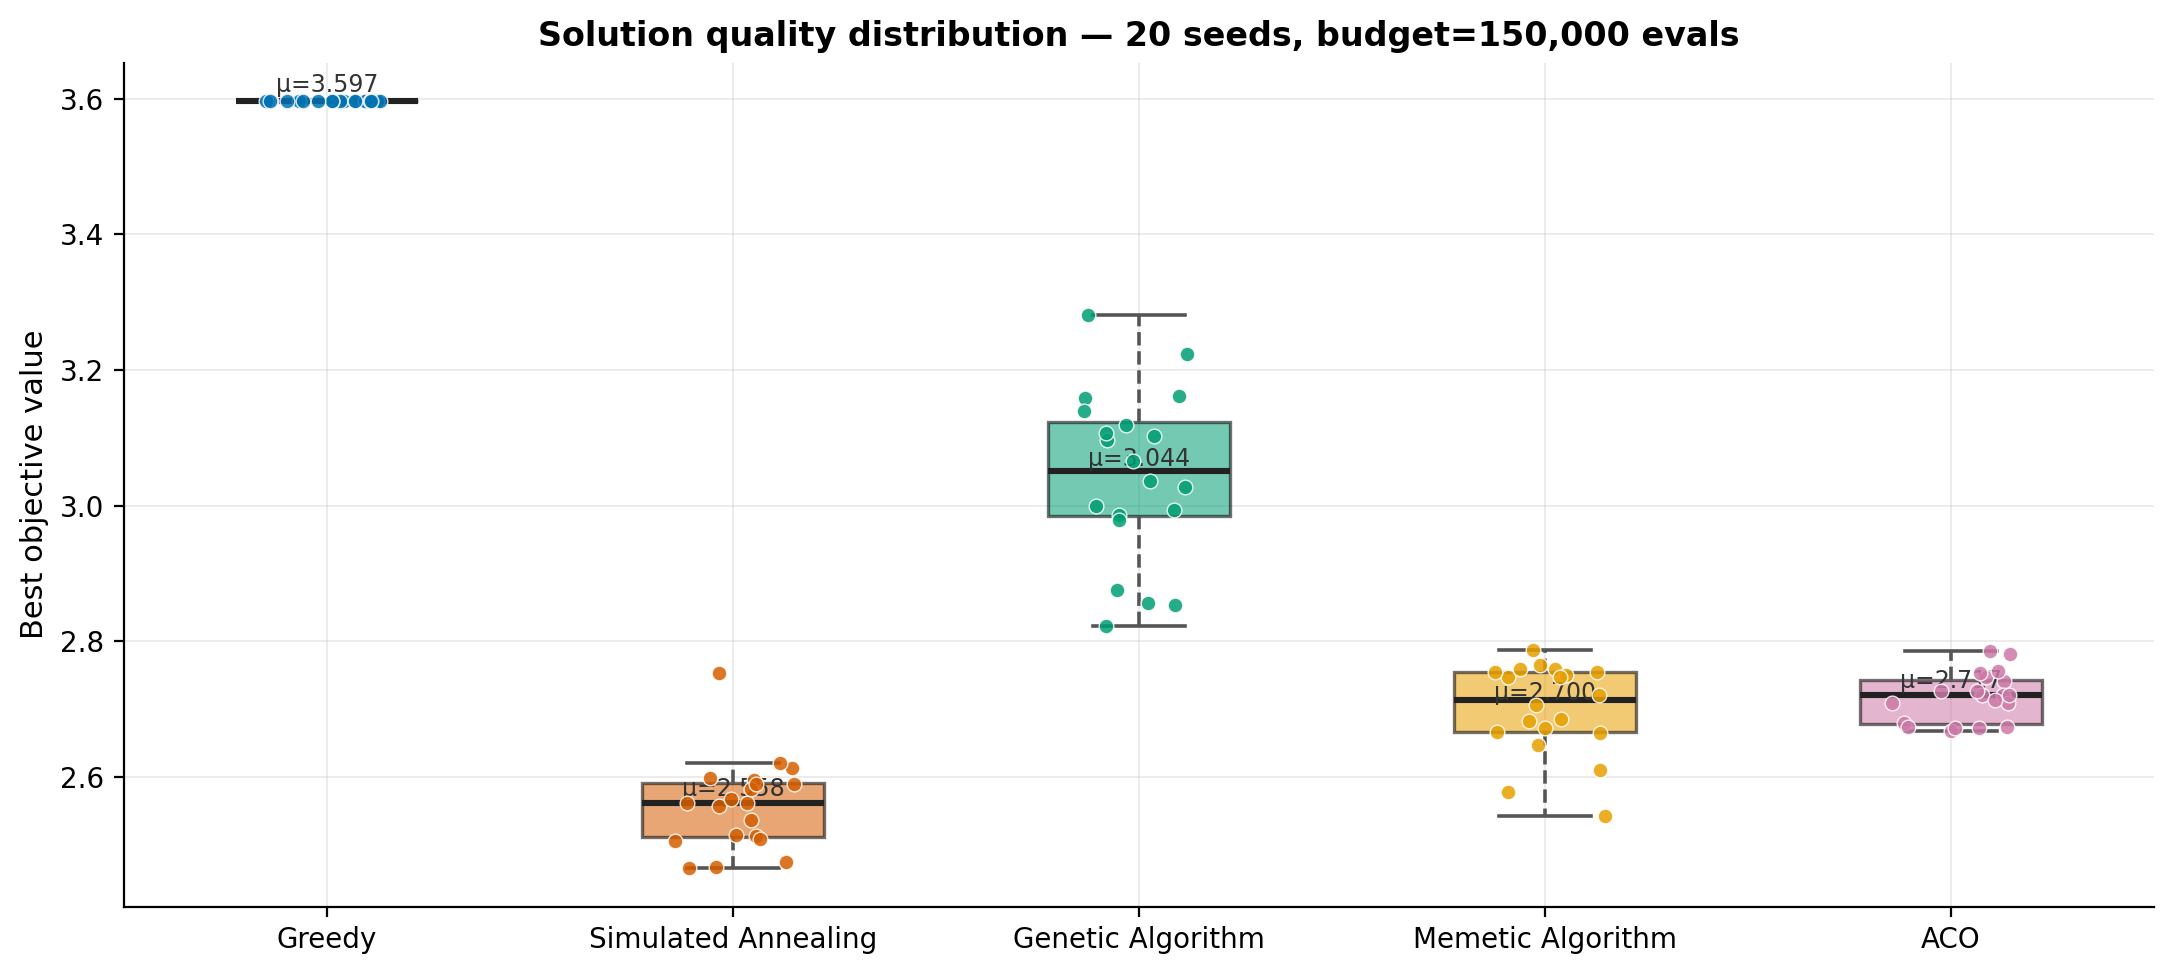
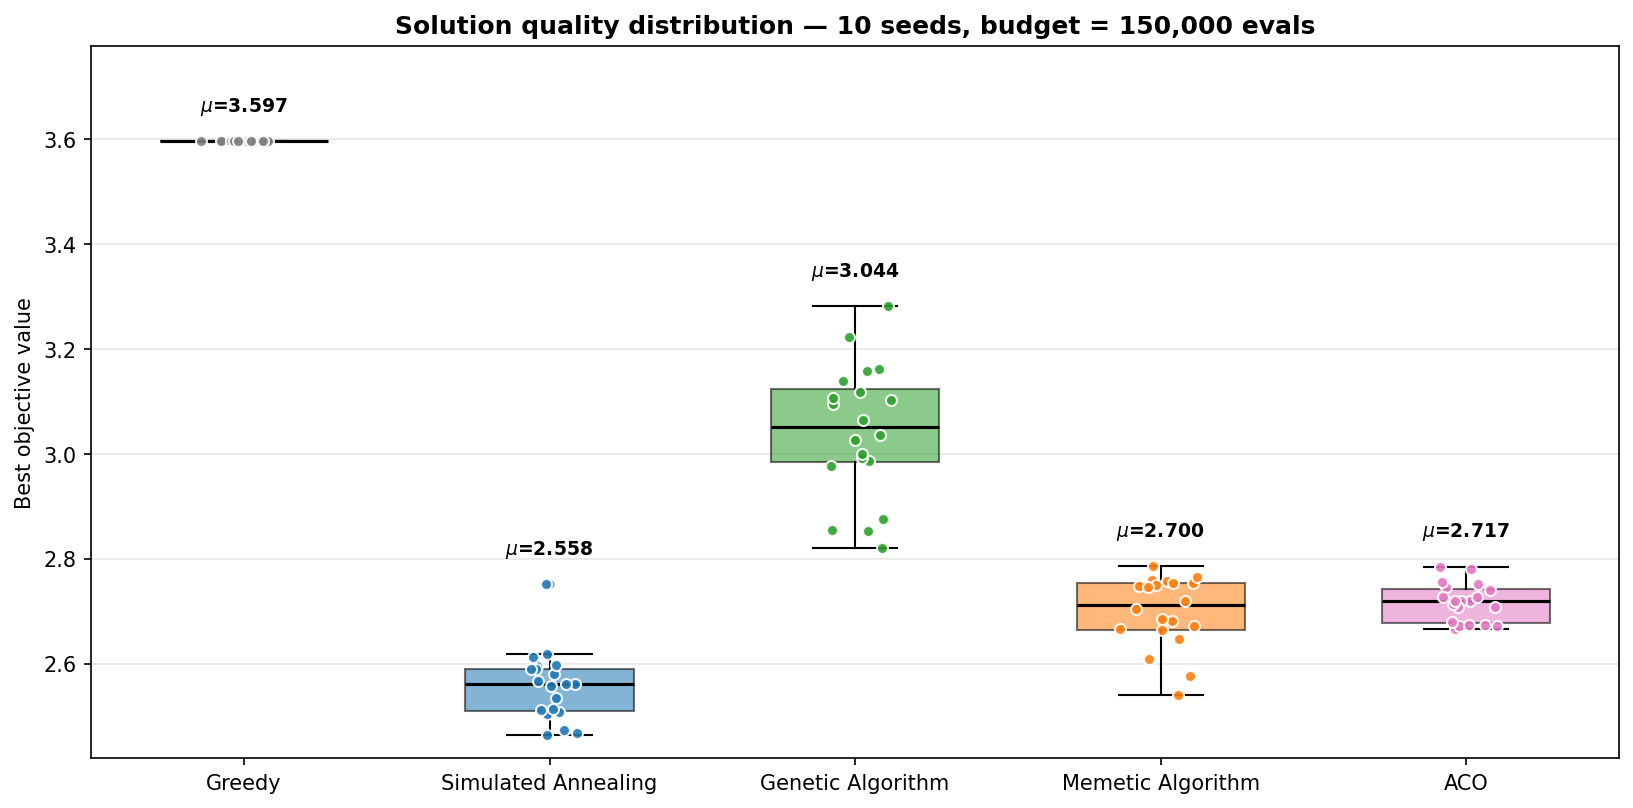
Fix mislabeled constrained-direction arrow on the EV battery and cloud server-count scalability plots, and reposition the sf_75 instance map figure in the report.

diff --git a/Cloud_scheduling/tools/plot.py b/Cloud_scheduling/tools/plot.py
@@ -809,13 +809,13 @@ def plot_vertical_scaling(vert_data: dict, figures_dir) -> None:
         ax.grid(True, alpha=_GRID_ALPHA)
         ax.legend(fontsize=9)
 
-    axes[0].set_xlabel("Number of servers  (← more constrained)", fontsize=11)
+    axes[0].set_xlabel("Number of servers  (more constrained →)", fontsize=11)
     axes[0].set_ylabel("Improvement over Greedy BFD (%)", fontsize=11)
     axes[0].set_title("Solution Quality vs. Constraint Tightness",
                       fontsize=12, fontweight="bold")
     axes[0].axhline(0, color="gray", linewidth=0.8, linestyle="--")
 
-    axes[1].set_xlabel("Number of servers  (← more constrained)", fontsize=11)
+    axes[1].set_xlabel("Number of servers  (more constrained →)", fontsize=11)
     axes[1].set_ylabel("Feasible solutions (%)", fontsize=11)
     axes[1].set_title("Feasibility Rate vs. Constraint Tightness",
                       fontsize=12, fontweight="bold")

diff --git a/EV_routing/tools/plot.py b/EV_routing/tools/plot.py
@@ -701,11 +701,11 @@ def plot_scalability(
             ax.invert_xaxis()
             ax.legend(fontsize=9)
 
-        axes[0].set_xlabel("Battery capacity (kWh)  (← more constrained)", fontsize=11)
+        axes[0].set_xlabel("Battery capacity (kWh)  (more constrained →)", fontsize=11)
         axes[0].set_ylabel("Average objective value  (lower = better)", fontsize=11)
         axes[0].set_title("Solution Quality vs. Constraint Tightness", fontsize=12, fontweight="bold")
 
-        axes[1].set_xlabel("Battery capacity (kWh)  (← more constrained)", fontsize=11)
+        axes[1].set_xlabel("Battery capacity (kWh)  (more constrained →)", fontsize=11)
         axes[1].set_ylabel("Feasible solutions (%)", fontsize=11)
         axes[1].set_title("Feasibility Rate vs. Constraint Tightness", fontsize=12, fontweight="bold")
         axes[1].set_ylim(-5, 110)

diff --git a/EV_routing/scripts/regen_fixed_plots.py b/EV_routing/scripts/regen_fixed_plots.py
@@ -91,7 +91,7 @@ def fix_battery() -> None:
 
     for ax in (axq, axf):
         ax.invert_xaxis()  # loose -> tight
-        ax.set_xlabel("Battery capacity (kWh)  (← more constrained)")
+        ax.set_xlabel("Battery capacity (kWh)  (more constrained →)")
         ax.grid(alpha=0.3)
     axq.set_ylabel("Average objective value (feasible cells only, lower = better)")
     axq.set_title("Solution Quality vs. Constraint Tightness")
